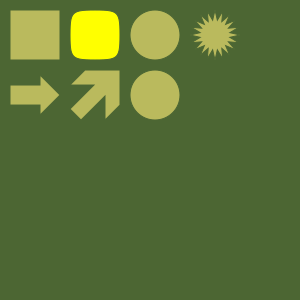
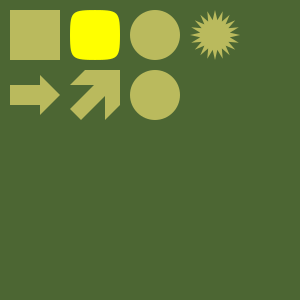
Fix unstroked shapes being rendered as bitmaps (#359)
* Ensure SVGSurfaces are set to SVG version 1.2
* Siimplify the Cairo stroke/fill flow for paths
* Update renders for comparison testing

diff --git a/shoebot/data/bezier.py b/shoebot/data/bezier.py
@@ -322,35 +322,16 @@ class BezierPath(Grob, ColorMixin):
             # Matrix affects stroke, so we need to reset it:
             cairo_ctx.set_matrix(cairo.Matrix())
 
-            if fillcolor is not None and strokecolor is not None:
-                if strokecolor[3] < 1:
-                    # Draw onto intermediate surface so that stroke
-                    # does not overlay fill
-                    cairo_ctx.push_group()
-
-                    cairo_ctx.set_source_rgba(*fillcolor)
-                    cairo_ctx.fill_preserve()
-
-                    e = cairo_ctx.stroke_extents()
-                    cairo_ctx.set_source_rgba(*strokecolor)
-                    cairo_ctx.set_operator(cairo.OPERATOR_SOURCE)
-                    cairo_ctx.set_line_width(strokewidth)
-                    cairo_ctx.stroke()
-
-                    cairo_ctx.pop_group_to_source()
-                    cairo_ctx.paint()
-                else:
-                    # Fast path if no alpha in stroke
-                    cairo_ctx.set_source_rgba(*fillcolor)
-                    cairo_ctx.fill_preserve()
-
-                    cairo_ctx.set_source_rgba(*strokecolor)
-                    cairo_ctx.set_line_width(strokewidth)
-                    cairo_ctx.stroke()
-            elif fillcolor is not None:
+            if fillcolor and strokecolor:
+                cairo_ctx.set_source_rgba(*fillcolor)
+                cairo_ctx.fill_preserve()
+                cairo_ctx.set_source_rgba(*strokecolor)
+                cairo_ctx.set_line_width(strokewidth)
+                cairo_ctx.stroke()
+            elif fillcolor:
                 cairo_ctx.set_source_rgba(*fillcolor)
                 cairo_ctx.fill()
-            elif strokecolor is not None:
+            elif strokecolor:
                 cairo_ctx.set_source_rgba(*strokecolor)
                 cairo_ctx.set_line_width(strokewidth)
                 cairo_ctx.stroke()
@@ -390,16 +371,16 @@ class BezierPath(Grob, ColorMixin):
         return contours
 
     def _locate(self, t, segments=None):
-        """ Locates t on a specific segment in the path.
-            Returns (index, t, PathElement)
-            A path is a combination of lines and curves (segments).
-            The returned index indicates the start of the segment that contains point t.
-            The returned t is the absolute time on that segment,
-            in contrast to the relative t on the whole of the path.
-            The returned point is the last MOVETO, any subsequent CLOSETO after i closes to that point.
-            When you supply the list of segment lengths yourself, as returned from length(path, segmented=True),
-            point() works about thirty times faster in a for-loop since it doesn't need to recalculate
-            the length during each iteration.
+        """Locates t on a specific segment in the path.
+        Returns (index, t, PathElement)
+        A path is a combination of lines and curves (segments).
+        The returned index indicates the start of the segment that contains point t.
+        The returned t is the absolute time on that segment,
+        in contrast to the relative t on the whole of the path.
+        The returned point is the last MOVETO, any subsequent CLOSETO after i closes to that point.
+        When you supply the list of segment lengths yourself, as returned from length(path, segmented=True),
+        point() works about thirty times faster in a for-loop since it doesn't need to recalculate
+        the length during each iteration.
         """
         # Originally from nodebox-gl
         if segments is None:
@@ -423,14 +404,14 @@ class BezierPath(Grob, ColorMixin):
 
     def point(self, t, segments=None):
         """
-            Returns the PathElement at time t (0.0-1.0) on the path.
+        Returns the PathElement at time t (0.0-1.0) on the path.
 
-            Returns coordinates for point at t on the path.
-            Gets the length of the path, based on the length of each curve and line in the path.
-            Determines in what segment t falls. Gets the point on that segment.
-            When you supply the list of segment lengths yourself, as returned from length(path, segmented=True),
-            point() works about thirty times faster in a for-loop since it doesn't need to recalculate
-            the length during each iteration.
+        Returns coordinates for point at t on the path.
+        Gets the length of the path, based on the length of each curve and line in the path.
+        Determines in what segment t falls. Gets the point on that segment.
+        When you supply the list of segment lengths yourself, as returned from length(path, segmented=True),
+        point() works about thirty times faster in a for-loop since it doesn't need to recalculate
+        the length during each iteration.
         """
         # Originally from nodebox-gl
         if len(self._elements) == 0:
@@ -469,8 +450,8 @@ class BezierPath(Grob, ColorMixin):
             raise PathError("Unknown cmd '%s' for p1 %s" % (p1.cmd, p1))
 
     def points(self, amount=100, start=0.0, end=1.0, segments=None):
-        """ Returns an iterator with a list of calculated points for the path.
-            To omit the last point on closed paths: end=1-1.0/amount
+        """Returns an iterator with a list of calculated points for the path.
+        To omit the last point on closed paths: end=1-1.0/amount
         """
         # Originally from nodebox-gl
         if len(self._elements) == 0:
@@ -487,11 +468,11 @@ class BezierPath(Grob, ColorMixin):
             yield self.point(start + d * i, segments)
 
     def _linepoint(self, t, x0, y0, x1, y1):
-        """ Returns coordinates for point at t on the line.
-            Calculates the coordinates of x and y for a point at t on a straight line.
-            The t parameter is a number between 0.0 and 1.0,
-            x0 and y0 define the starting point of the line,
-            x1 and y1 the ending point of the line.
+        """Returns coordinates for point at t on the line.
+        Calculates the coordinates of x and y for a point at t on a straight line.
+        The t parameter is a number between 0.0 and 1.0,
+        x0 and y0 define the starting point of the line,
+        x1 and y1 the ending point of the line.
         """
         # Originally from nodebox-gl
         out_x = x0 + t * (x1 - x0)
@@ -499,24 +480,23 @@ class BezierPath(Grob, ColorMixin):
         return (out_x, out_y)
 
     def _linelength(self, x0, y0, x1, y1):
-        """ Returns the length of the line.
-        """
+        """Returns the length of the line."""
         # Originally from nodebox-gl
         a = pow(abs(x0 - x1), 2)
         b = pow(abs(y0 - y1), 2)
         return sqrt(a + b)
 
     def _curvepoint(self, t, x0, y0, x1, y1, x2, y2, x3, y3, handles=False):
-        """ Returns coordinates for point at t on the spline.
-            Calculates the coordinates of x and y for a point at t on the cubic bezier spline,
-            and its control points, based on the de Casteljau interpolation algorithm.
-            The t parameter is a number between 0.0 and 1.0,
-            x0 and y0 define the starting point of the spline,
-            x1 and y1 its control point,
-            x3 and y3 the ending point of the spline,
-            x2 and y2 its control point.
-            If the handles parameter is set, returns not only the point at t,
-            but the modified control points of p0 and p3 should this point split the path as well.
+        """Returns coordinates for point at t on the spline.
+        Calculates the coordinates of x and y for a point at t on the cubic bezier spline,
+        and its control points, based on the de Casteljau interpolation algorithm.
+        The t parameter is a number between 0.0 and 1.0,
+        x0 and y0 define the starting point of the spline,
+        x1 and y1 its control point,
+        x3 and y3 the ending point of the spline,
+        x2 and y2 its control point.
+        If the handles parameter is set, returns not only the point at t,
+        but the modified control points of p0 and p3 should this point split the path as well.
         """
         # Originally from nodebox-gl
         mint = 1 - t
@@ -549,12 +529,12 @@ class BezierPath(Grob, ColorMixin):
             )
 
     def _curvelength(self, x0, y0, x1, y1, x2, y2, x3, y3, n=20):
-        """ Returns the length of the spline.
-            Integrates the estimated length of the cubic bezier spline defined by x0, y0, ... x3, y3,
-            by adding the lengths of lineair lines between points at t.
-            The number of points is defined by n
-            (n=10 would add the lengths of lines between 0.0 and 0.1, between 0.1 and 0.2, and so on).
-            The default n=20 is fine for most cases, usually resulting in a deviation of less than 0.01.
+        """Returns the length of the spline.
+        Integrates the estimated length of the cubic bezier spline defined by x0, y0, ... x3, y3,
+        by adding the lengths of lineair lines between points at t.
+        The number of points is defined by n
+        (n=10 would add the lengths of lines between 0.0 and 0.1, between 0.1 and 0.2, and so on).
+        The default n=20 is fine for most cases, usually resulting in a deviation of less than 0.01.
         """
         # Originally from nodebox-gl
         length = 0
@@ -572,8 +552,7 @@ class BezierPath(Grob, ColorMixin):
         return length
 
     def _segment_lengths(self, relative=False, n=20):
-        """ Returns a list with the lengths of each segment in the path.
-        """
+        """Returns a list with the lengths of each segment in the path."""
         # From nodebox_gl
         lengths = []
         first = True
@@ -607,11 +586,11 @@ class BezierPath(Grob, ColorMixin):
             return lengths
 
     def _get_length(self, segmented=False, precision=10):
-        """ Returns the length of the path.
-            Calculates the length of each spline in the path, using n as a number of points to measure.
-            When segmented is True, returns a list containing the individual length of each spline
-            as values between 0.0 and 1.0, defining the relative length of each spline
-            in relation to the total path length.
+        """Returns the length of the path.
+        Calculates the length of each spline in the path, using n as a number of points to measure.
+        When segmented is True, returns a list containing the individual length of each spline
+        as values between 0.0 and 1.0, defining the relative length of each spline
+        in relation to the total path length.
         """
         # Originally from nodebox-gl
         if not segmented:

diff --git a/shoebot/grammar/bot.py b/shoebot/grammar/bot.py
@@ -221,7 +221,7 @@ class Bot(Grammar):
 
     def _makeInstance(self, clazz, args, kwargs):
         """Creates an instance of a class defined in this document.
-           This method sets the context of the object to the current context."""
+        This method sets the context of the object to the current context."""
         inst = clazz(self, *args, **kwargs)
         return inst
 
@@ -409,6 +409,7 @@ class Bot(Grammar):
             from IPython.display import SVG
 
             surface = cairo.SVGSurface(b, self.WIDTH, self.HEIGHT)
+            surface.restrict_to_version(cairo.SVGVersion.VERSION_1_2)
             surface.finish()
             b.seek(0)
             data = b.read()

diff --git a/shoebot/core/cairo_canvas.py b/shoebot/core/cairo_canvas.py
@@ -188,9 +188,9 @@ class CairoCanvas(Canvas):
                 target_ctx.set_source_surface(ctx.get_target())
                 target_ctx.paint()
             elif extension == ".svg":
-                target_ctx = cairo.Context(
-                    cairo.SVGSurface(filename, *self.size_or_default())
-                )
+                surface = cairo.SVGSurface(filename, *self.size_or_default())
+                surface.restrict_to_version(cairo.SVGVersion.VERSION_1_2)
+                target_ctx = cairo.Context(surface)
                 target_ctx.set_source_surface(ctx.get_target())
                 target_ctx.paint()
             return filename

diff --git a/shoebot/core/cairo_sink.py b/shoebot/core/cairo_sink.py
@@ -89,6 +89,7 @@ class CairoImageSink(DrawQueueSink):
             surface = cairo.PSSurface(self._output_file(frame), *size)
         elif self.format == "svg":
             surface = cairo.SVGSurface(self._output_file(frame), *size)
+            surface.restrict_to_version(cairo.SVGVersion.VERSION_1_2)
         elif self.format == "surface":
             surface = self.target
         else:
